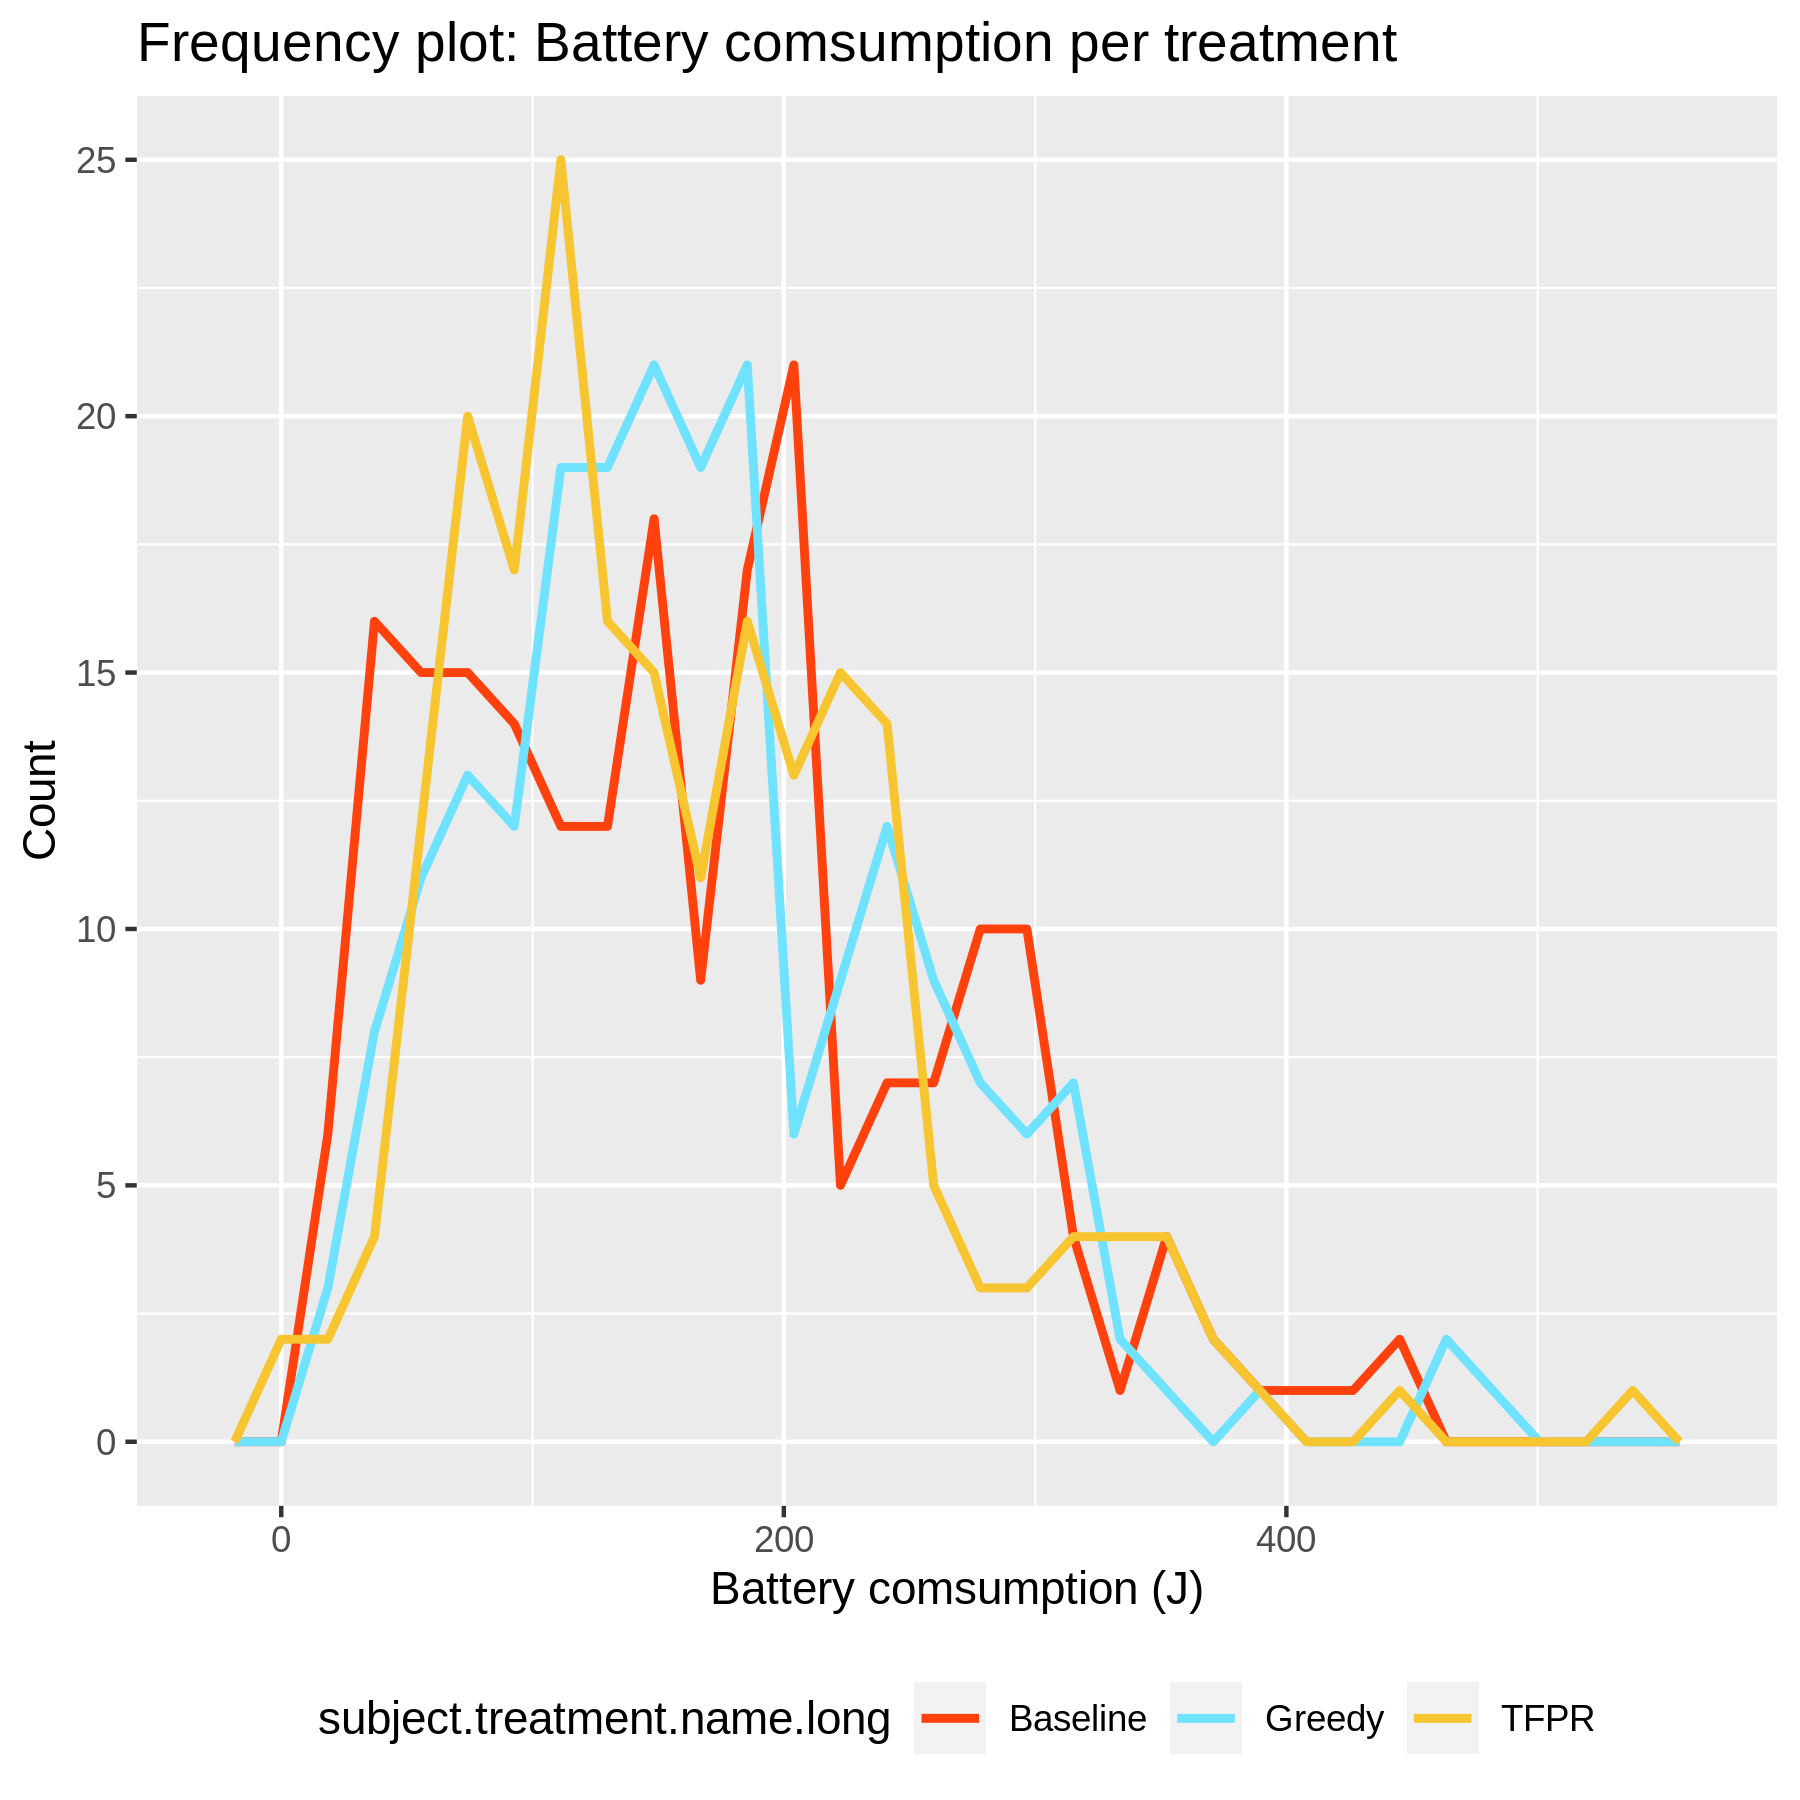
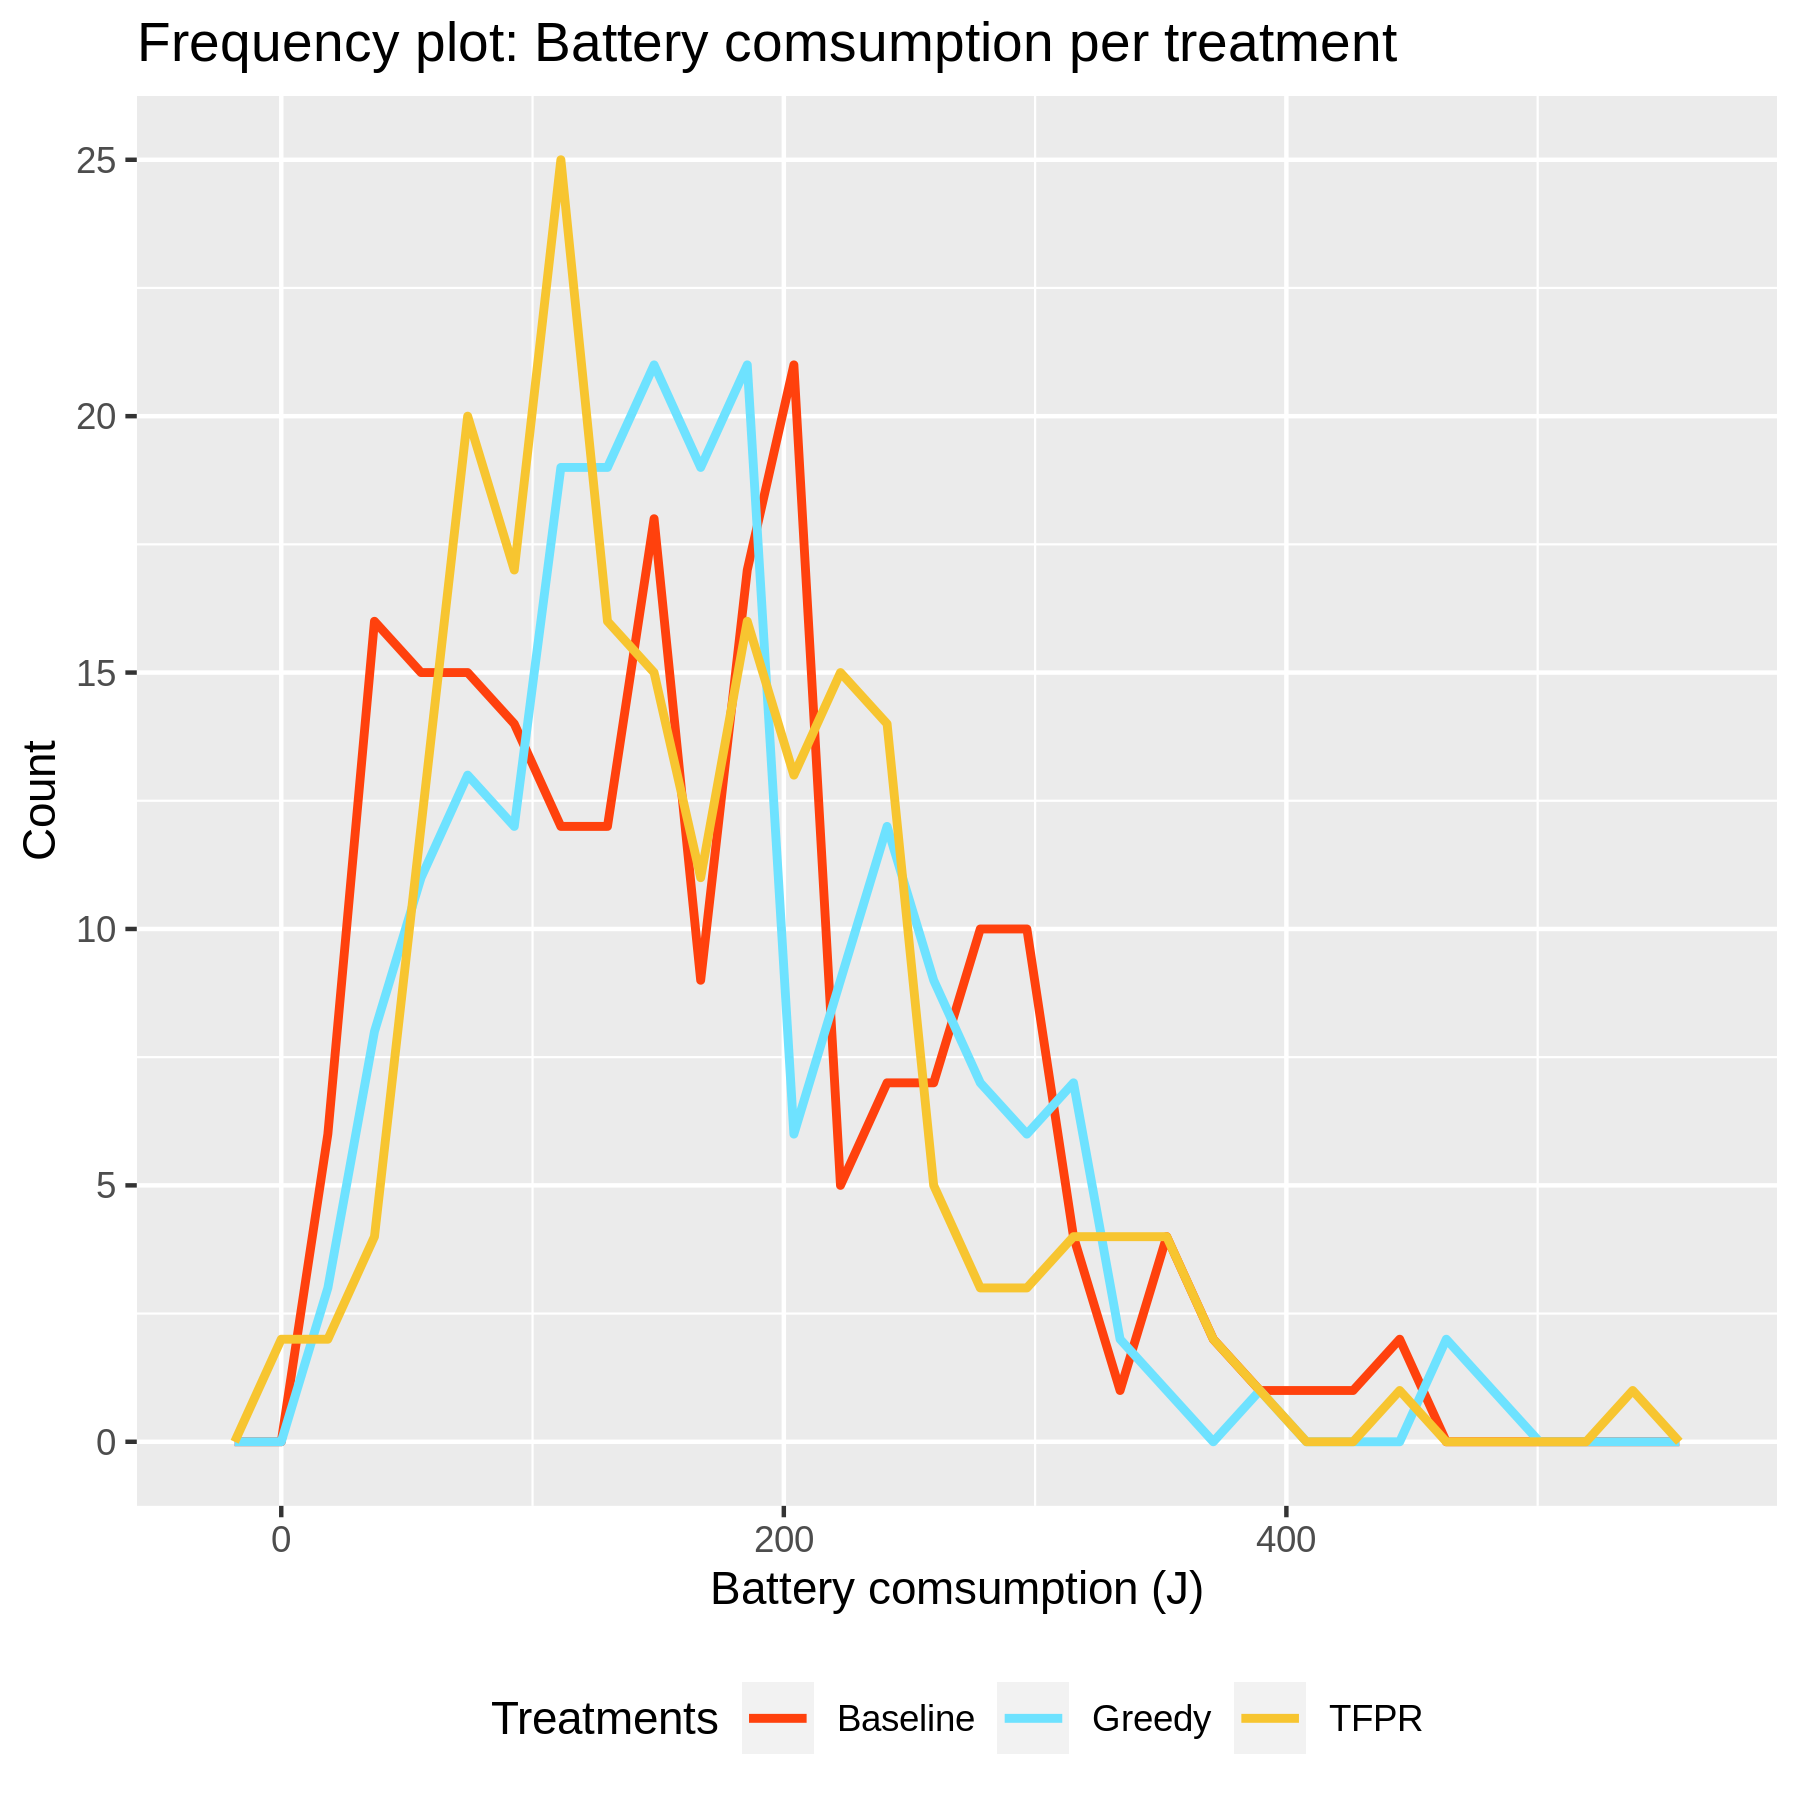
Fix legend label

Changed region(s): [[0.1867, 0.9333, 0.8089, 0.9644], [0.84, 0.9333, 0.8711, 0.9644]]

diff --git a/data-analysis/output/rq1/summary-battery.tex b/data-analysis/output/rq1/summary-battery.tex
@@ -1,5 +1,5 @@
 % latex table generated in R 4.0.2 by xtable 1.8-4 package
-% Fri Aug  7 22:32:24 2020
+% Fri Aug  7 22:34:41 2020
 \begin{table}[ht]
 \centering
 \begin{tabular}{rrrrrrr}

diff --git a/data-analysis/output/rq1/summary-cpu.tex b/data-analysis/output/rq1/summary-cpu.tex
@@ -1,5 +1,5 @@
 % latex table generated in R 4.0.2 by xtable 1.8-4 package
-% Fri Aug  7 22:32:24 2020
+% Fri Aug  7 22:34:41 2020
 \begin{table}[ht]
 \centering
 \begin{tabular}{rrrrrrr}

diff --git a/data-analysis/output/rq1/summary-memory.tex b/data-analysis/output/rq1/summary-memory.tex
@@ -1,5 +1,5 @@
 % latex table generated in R 4.0.2 by xtable 1.8-4 package
-% Fri Aug  7 22:32:24 2020
+% Fri Aug  7 22:34:41 2020
 \begin{table}[ht]
 \centering
 \begin{tabular}{rrrrrrr}

diff --git a/data-analysis/output/rq1/summary-duration.tex b/data-analysis/output/rq1/summary-duration.tex
@@ -1,5 +1,5 @@
 % latex table generated in R 4.0.2 by xtable 1.8-4 package
-% Fri Aug  7 22:32:24 2020
+% Fri Aug  7 22:34:41 2020
 \begin{table}[ht]
 \centering
 \begin{tabular}{rrrr}
